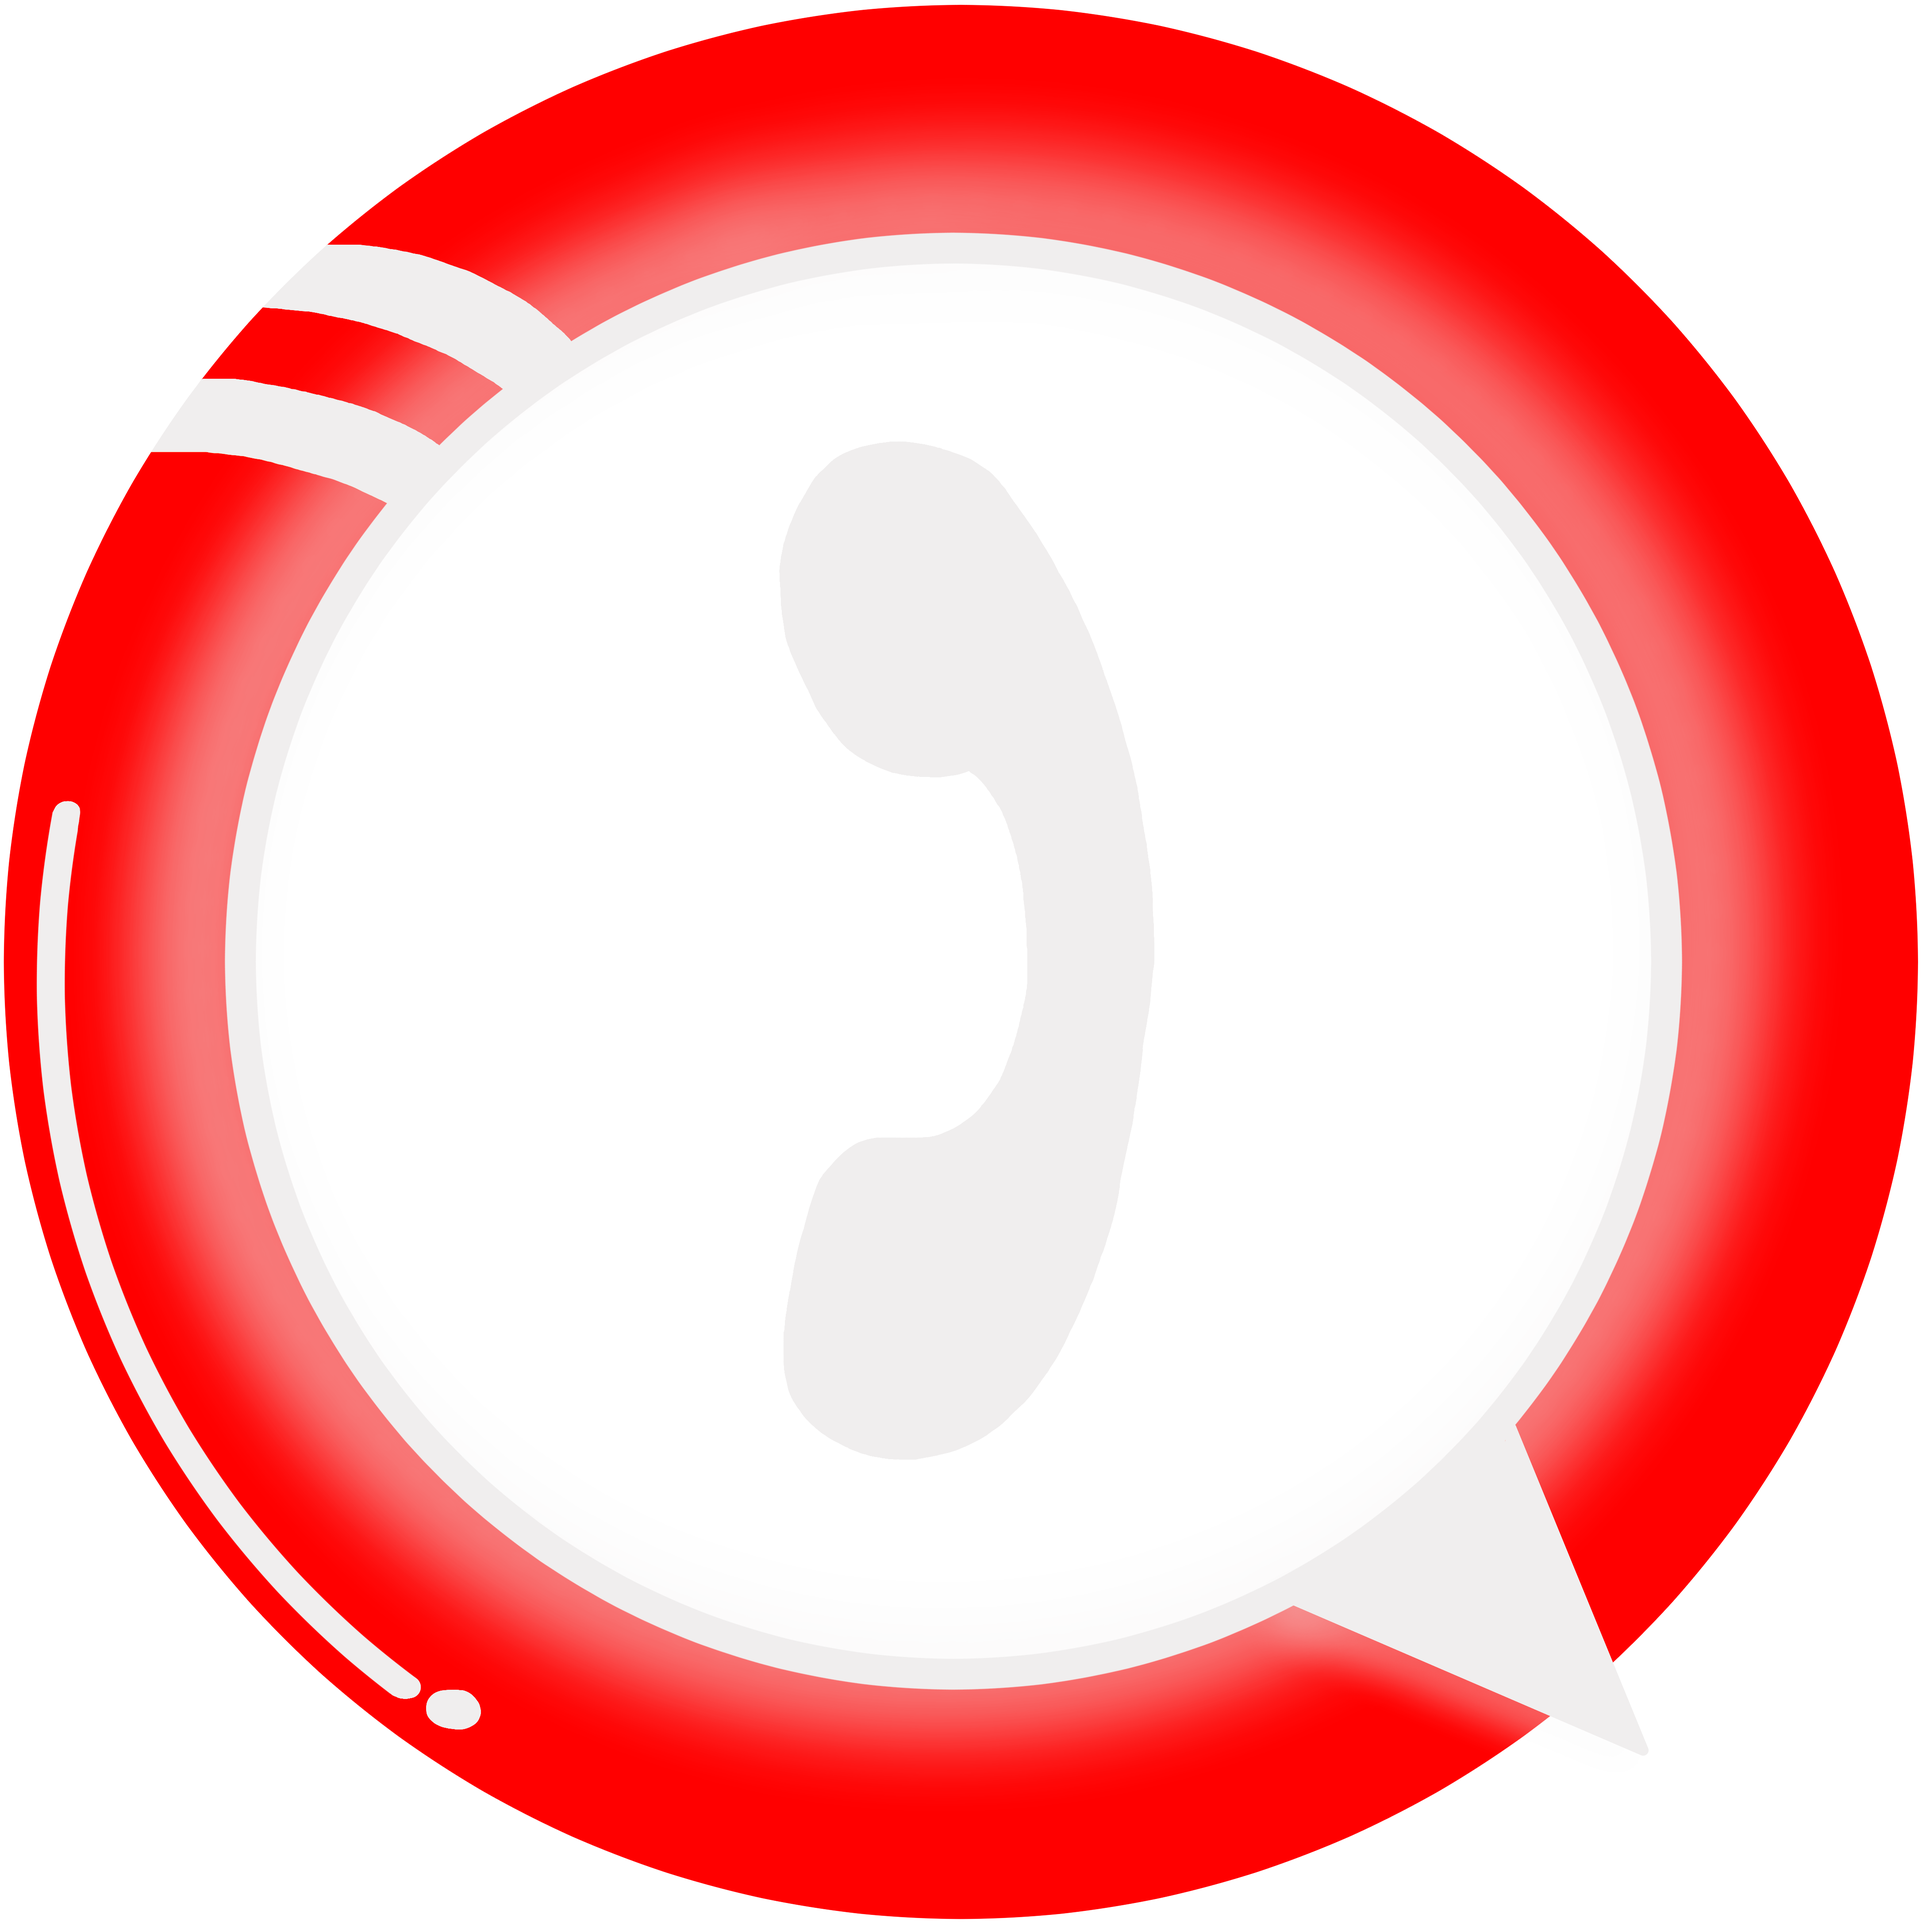
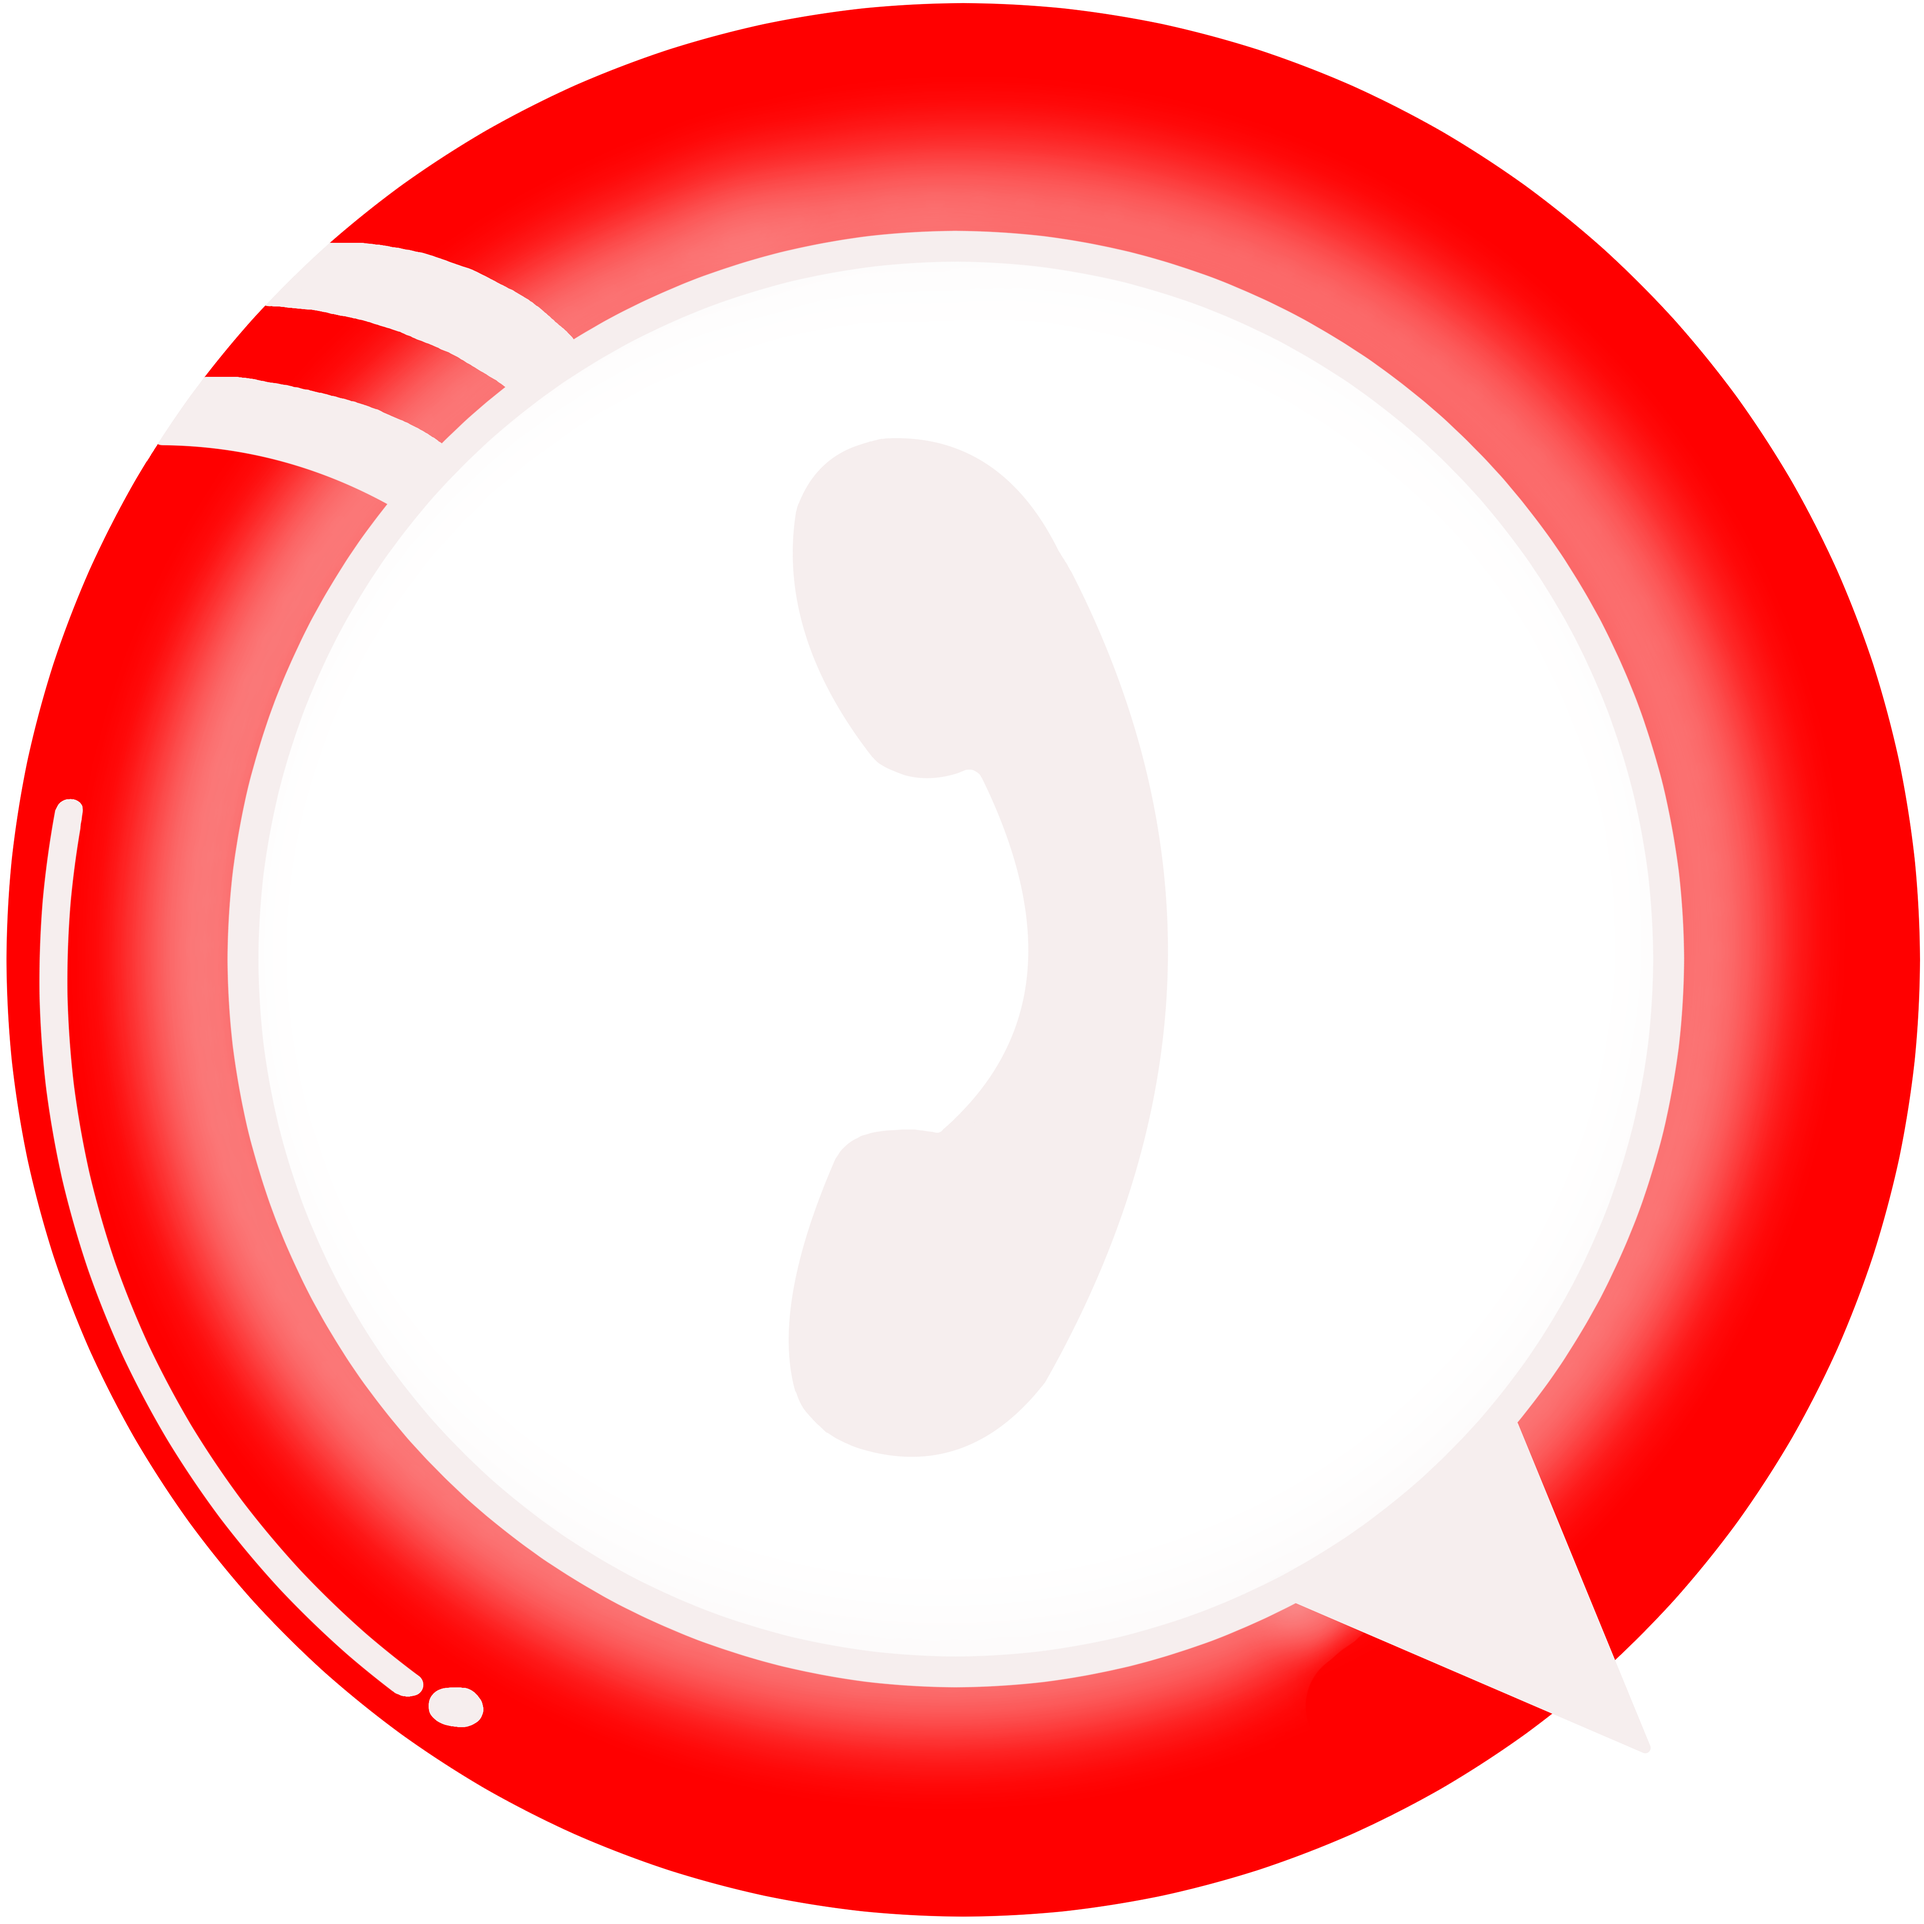
pictures

diff --git a/components/CallToActions.vue b/components/CallToActions.vue
@@ -7,7 +7,7 @@
       <picture>
       
         <img
-          src="/images/tharrawaddy-min-bell-2.png"
+          src="/images/tharrawaddy-min-bell.png"
           alt="Tharrawaddy Min Bell"
           loading="lazy"
         >
